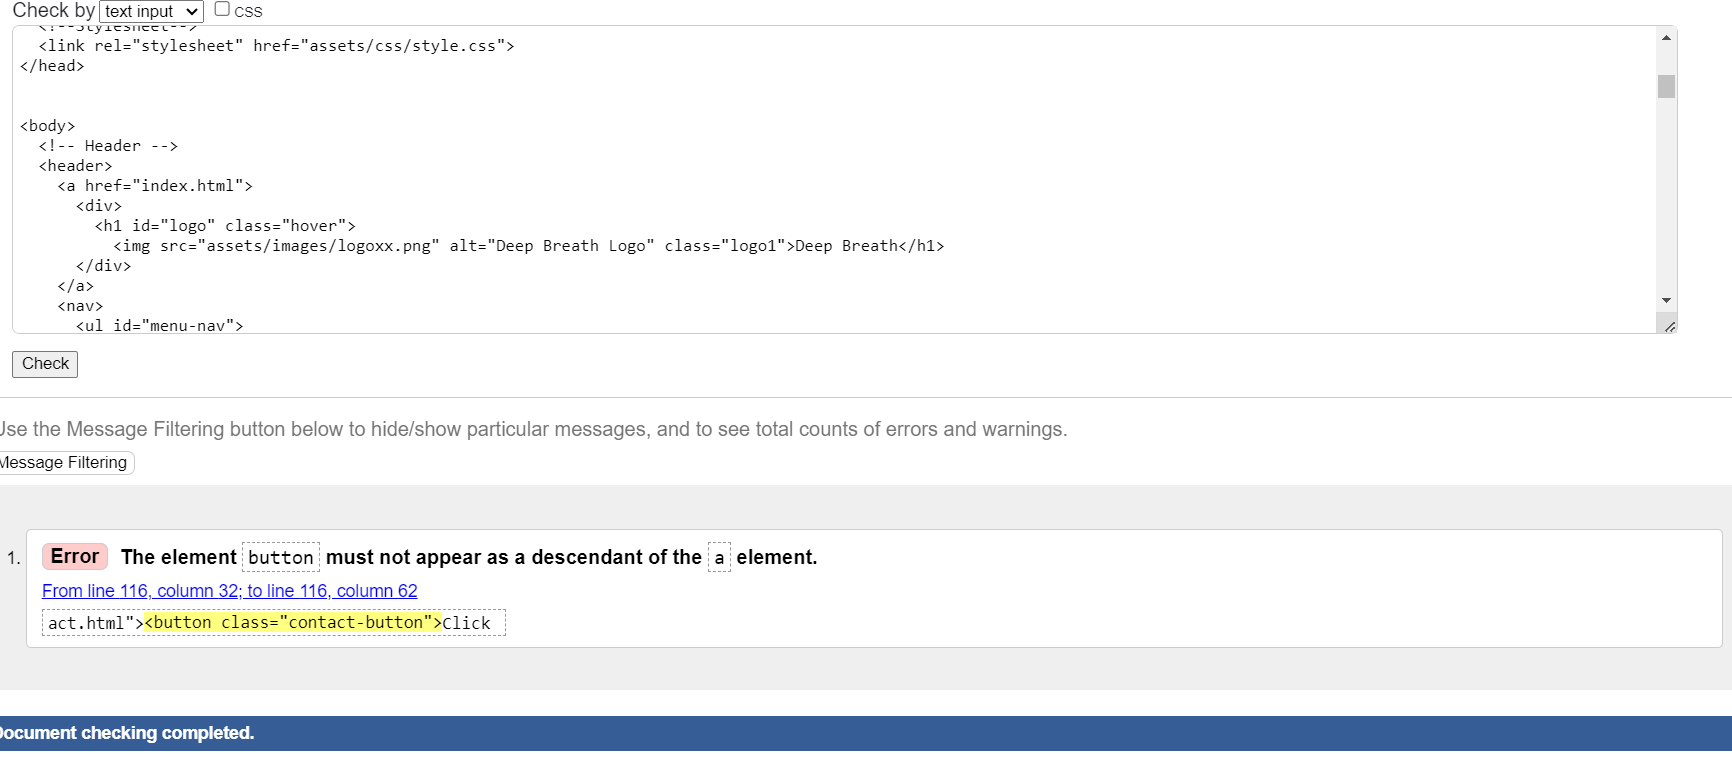
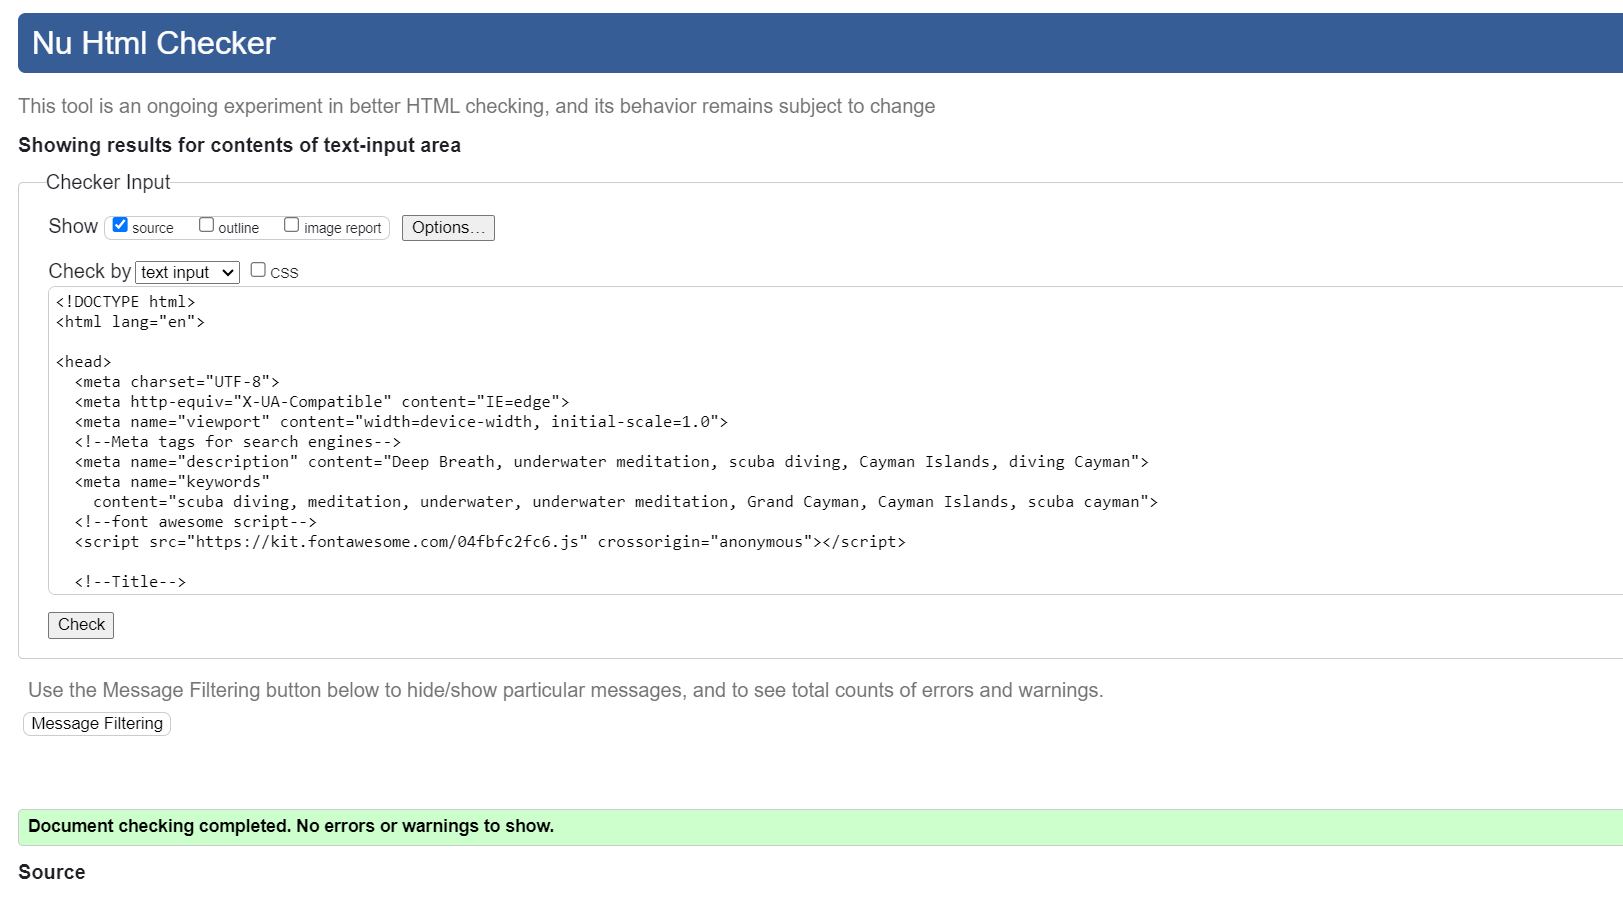
Fixing small bug with \ in file images instead of /, when copied from direct path in explorer

diff --git a/benefits.html b/benefits.html
@@ -113,7 +113,7 @@
       <div style="text-align: center;">
         <!-- Button to navigate to contact.html -->
 
-        <a href="contact.html"><button class="contact-button">Click Here</button></a>
+        <a class="contact-button" href=" contact.html">Click Here</a>
 
 
       </div>

diff --git a/README.md b/README.md
@@ -6,9 +6,9 @@ Deep Breath is a site to advertise the scuba diving company "Deep Breath" and do
 
 It will be useful for people interested in taking care of their well-being, and finding out more information on how to get started in partaking in underwater meditation.
 
-The site can be accessed by this [link](https://kimatron.github.io/deepbreath/)
+The site can be accessed through this [link](https://kimatron.github.io/deepbreath/)](https://kimatron.github.io/deepbreath/)
 
-![Deep Breath](documentation\indexresponsive.png)
+![Deep Breath](documentation/indexresponsive.png)
 
 ## Existing Features
 ### - Navigation Bar
@@ -18,16 +18,19 @@ The site can be accessed by this [link](https://kimatron.github.io/deepbreath/)
 - Each section is easy to identify and identical in a manner to allow for easy navigation. 
 
 The purpose of this feature is to allow users to easily navigate through different sections of the site.
-![Navbar](documentation\navbar.png)
+
+![Navbar](documentation/navbar.png)
 
 ### Footer
 - The footer remains at the bottom of the page and provides easy links to social media pages which are always easily accessible.
-![Footer](documentation\footer.png)
+
+![Footer](documentation/footer.png)
 
 ### - The landing page image
 
 - The landing page includes an image with text to grab the user's attention and allows them to identify the section that will direct them to information about Underwater Meditation
-![Landing Page](assets\images\main-image.jpg)
+
+![Landing Page](assets/images/main-image.jpg)
 
 ### - Gallery Page
 - A gallery page was added to include images for users to visualize what underwater meditation would look and feel like. It also breaks up any monotonous-looking text blocks.
@@ -41,31 +44,33 @@ The purpose of this feature is to allow users to easily navigate through differe
 - It has a call to action button right after the introduction message that leads to the contact form page.
 
 ### Contact page
-- Contact page has a contact form that :
-
+- The contact page has a contact form that :
     - All text input fields are customized.
    - Important inputs are set to be required to fill out.
     - The submit button is animated on hover.
      - The submit button leads to the response page.
-- Contains an interactive map with location of dive center.
+- Contains an interactive map with the location of the dive center.
 - Contains a contact us box with a typed physical address.
-![Contact Us](documentation\contactus.png)
+
+![Contact Us](documentation/contactus.png)
 
 ## Design
 
 ### Color Scheme
-Dark and light blues and coral shades were used to match the water theme of the company and to co-ordinate with underwater images and provide a contrast for visual ease.
+Dark and light blues and coral shades were used to match the water theme of the company and to coordinate with underwater images and provide a contrast for visual ease.
 
-![Color Scheme](documentation\deepbreath_colorpalette.png)
+![Color Scheme](documentation/deepbreath_colorpalette.png)
 
 ### Typography
 
 Main Font 
 - Catamaran (sans-serif) Google Font was used as the main font of the website to increase the readability of the content on the pages.
-![Catamaran](documentation\catamaranfont.png)
+
+![Catamaran](documentation/catamaranfont.png)
 
 Accent Font 
-- Questrial (sans-serif) Google Font was used to attract viewers' attention to the company's logo, to differentiate the strong points of the company.
+- Questrial (sans-serif) Google Font was used to attract viewers' attention to the company's logo and to differentiate the strong points of the company.
+
 ![Questrial](documentation/questrialfont.png)
 
 ## Deployment
@@ -85,11 +90,12 @@ In your IDE Terminal, type the following command to clone my repository:
 - `git clone https://github.com/kimatron/deepbreath.git`
 
 ## Potential Future Features
-In the future adding a feature to index local dive shops in a user's area via a mapping tool and linking them to dive shops in their locality would be beneficial.
 
- This could also be beneficial to *us* by way of commission of sales possibly.
+- In the future adding a feature to index local dive shops in a user's area via a mapping tool and linking them to dive shops in their locality would be beneficial.
 
- Adding a live booking feature would improve sales and increase response time rather than having to contact us and wait for a response.
+ - This could also be beneficial to *us* by way of commission of sales possibly.
+
+ - Adding a live booking feature would improve sales and increase response time rather than having to contact us and wait for a response.
 
 ## Testing
 

diff --git a/testing.md b/testing.md
@@ -103,7 +103,7 @@ One strange bug I noticed in Incognito mode was that the Nav Menu was permanentl
 
 + ## LightHouse report
 
-    - Using lighthouse in devtools in Google Chrome, I confirmed that the website is performing well on most counts, is accessible and colors and fonts chosen are readable.
+    - Using lighthouse in devtools in Google Chrome, I confirmed that the website is performing well on most counts, is accessible and the colors and fonts chosen are readable.
     
   ### Home page
 
